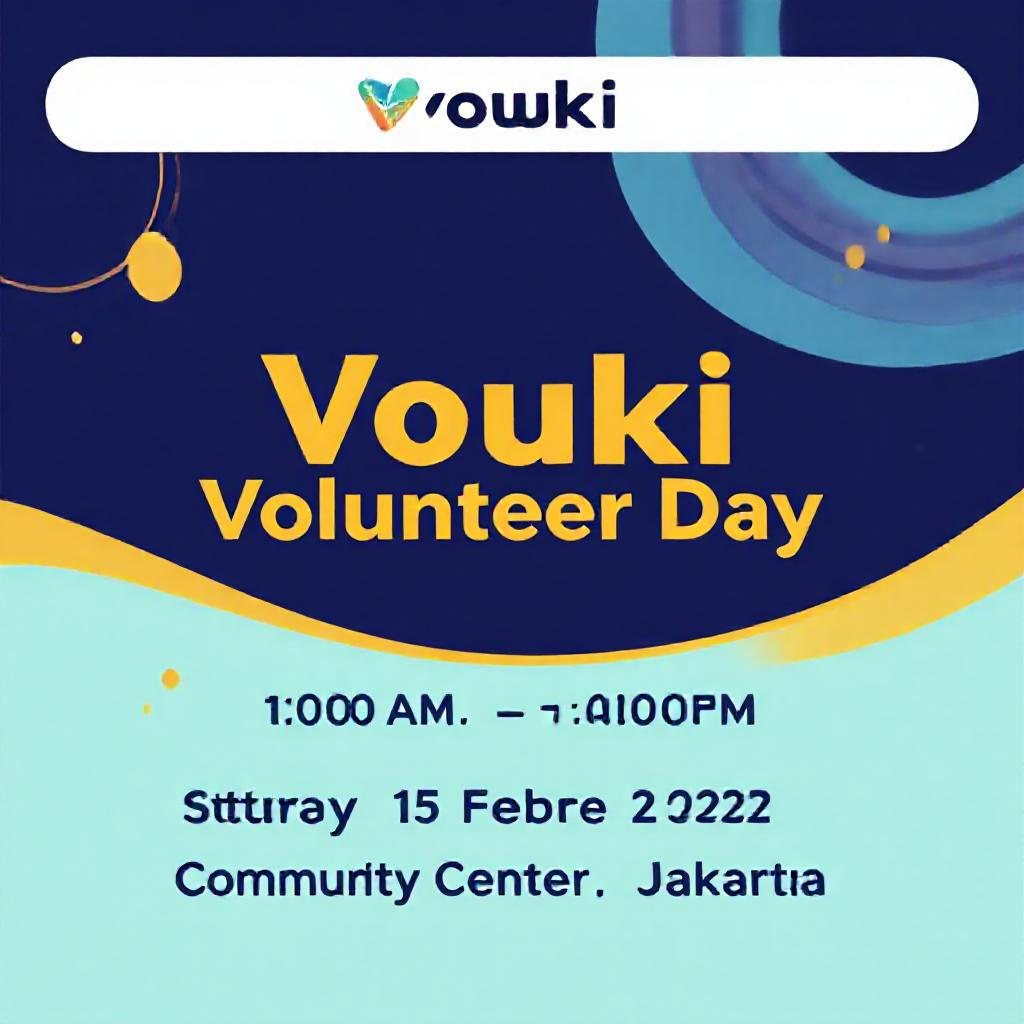
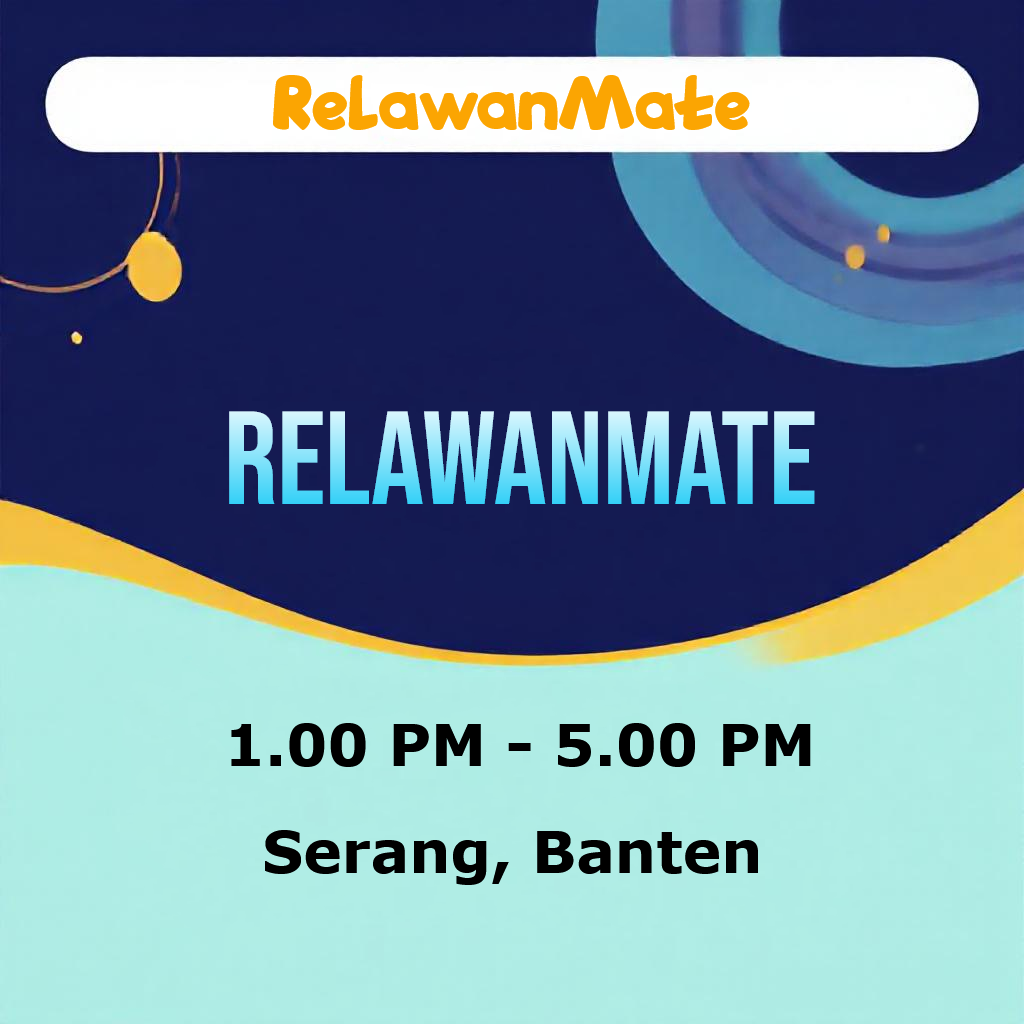
feat: for business

diff --git a/tailwind.config.js b/tailwind.config.js
@@ -23,14 +23,15 @@ export default {
                 xl: "1280px",
             },
             colors:{
-                "primary1": "#F4D8D8",
-                "secondary1": "#B06E6E",
-                "tertiary1": "#550909",
-                "primary2": "#DE7C7D",
-                "secondary2": "#CC2B52",
-                "tertiary2": "#AF1740",
-                "tertiary3": "#740938",
-                "tertiary4": "#37061B",
+                "primary1": "#D8E6F4",     // Soft Frost Blue
+                "secondary1": "#6E8BB0",   // Dusty Denim Blue
+                "tertiary1": "#092B55",    // Deep Navy (pengganti 550909 vibe-nya)
+                "primary2": "#7CB0DE",     // Skywashed Blue
+                "secondary2": "#2B5FCC",   // Bold Blue (strong tapi gak neon)
+                "tertiary2": "#1748AF",    // Royal Indigo
+                "tertiary3": "#093074",    // Dark Cobalt
+                "tertiary4": "#061A37",    // Midnight Blue (gelap banget, buat background/depth)
+                "backgroundblue": "#F2F6FD", // Soft Frost White
             }
         },
     },

diff --git a/resources/views/profile/edit.blade.php b/resources/views/profile/edit.blade.php
@@ -8,11 +8,11 @@
     <x-container>
         <div x-data="{ tab: 'profile-information' }" class="tw-flex tw-space-x-4">
             <!-- Navigation Column -->
-            <div class="tw-w-1/4 tw-bg-red-100 tw-p-4 tw-shadow sm:tw-rounded-lg tw-h-auto">
+            <div class="tw-w-1/4 tw-bg-slate-300 tw-p-4 tw-shadow sm:tw-rounded-lg tw-h-auto">
                 <div class="tw-flex tw-flex-col tw-space-y-4">
                     <button @click.prevent="tab = 'profile-information'"
-                        :class="{ 'tw-bg-rose-950 tw-text-white': tab === 'profile-information', 'tw-bg-white tw-text-red-950': tab !== 'profile-information' }"
-                        class="tw-py-2 tw-px-4 tw-rounded tw-border tw-text-red-950 tw-transition-colors tw-flex tw-items-center">
+                        :class="{ 'tw-bg-slate-200 tw-text-white': tab === 'profile-information', 'tw-bg-white tw-text-secondary2': tab !== 'profile-information' }"
+                        class="tw-py-2 tw-px-4 tw-rounded tw-border tw-text-secondary2 tw-transition-colors tw-flex tw-items-center">
                         <svg class="tw-w-5 tw-h-5 tw-mr-2" fill="none" stroke="currentColor" viewBox="0 0 24 24"
                             xmlns="http://www.w3.org/2000/svg">
                             <path stroke-linecap="round" stroke-linejoin="round" stroke-width="2"
@@ -23,8 +23,8 @@
                         Profile Information
                     </button>
                     <button @click.prevent="tab = 'update-password'"
-                        :class="{ 'tw-bg-rose-950 tw-text-white': tab === 'update-password', 'tw-bg-white tw-text-red-950': tab !== 'update-password' }"
-                        class="tw-py-2 tw-px-4 tw-rounded tw-border tw-text-red-950 tw-transition-colors tw-flex tw-items-center">
+                        :class="{ 'tw-bg-slate-200 tw-text-white': tab === 'update-password', 'tw-bg-white tw-text-secondary2': tab !== 'update-password' }"
+                        class="tw-py-2 tw-px-4 tw-rounded tw-border tw-text-secondary2 tw-transition-colors tw-flex tw-items-center">
                         <svg class="tw-w-5 tw-h-5 tw-mr-2" fill="none" stroke="currentColor" viewBox="0 0 24 24"
                             xmlns="http://www.w3.org/2000/svg">
                             <path stroke-linecap="round" stroke-linejoin="round" stroke-width="2"
@@ -36,8 +36,8 @@
                         Update Password
                     </button>
                     <button @click.prevent="tab = 'delete-user'"
-                        :class="{ 'tw-bg-rose-950 tw-text-white': tab === 'delete-user', 'tw-bg-white tw-text-red-950': tab !== 'delete-user' }"
-                        class="tw-py-2 tw-px-4 tw-rounded tw-border tw-text-red-950 tw-transition-colors tw-flex tw-items-center">
+                        :class="{ 'tw-bg-slate-200 tw-text-white': tab === 'delete-user', 'tw-bg-white tw-text-secondary2': tab !== 'delete-user' }"
+                        class="tw-py-2 tw-px-4 tw-rounded tw-border tw-text-secondary2 tw-transition-colors tw-flex tw-items-center">
                         <svg class="tw-w-5 tw-h-5 tw-mr-2" fill="none" stroke="currentColor" viewBox="0 0 24 24"
                             xmlns="http://www.w3.org/2000/svg">
                             <path stroke-linecap="round" stroke-linejoin="round" stroke-width="2"

diff --git a/resources/views/welcome.blade.php b/resources/views/welcome.blade.php
@@ -27,7 +27,7 @@
                 <h1 class="tw-text-2xl tw-font-semibold">Find The Right Events For You</h1>
                 <a href="" class="tw-text-gray-700 underline">See All Categories</a>
             </div>
-            <p>With VouKi's advanced filtered search, you can easily discover volunteer opportunities tailored to various categories and benefits, helping you find the perfect match for your interests and goals.</p>
+            <p>With RelawanMate's advanced filtered search, you can easily discover volunteer opportunities tailored to various categories and benefits, helping you find the perfect match for your interests and goals.</p>
         </div>
 
         <div class="tw-grid w-full tw-grid-cols-1 sm:tw-grid-cols-2 md:tw-grid-cols-3 lg:tw-grid-cols-4 tw-mb-8 tw-gap-5">
@@ -62,7 +62,7 @@
                 <h1 class="tw-text-2xl tw-font-semibold">Latest Volunteer Opportunities</h1>
                 <a href="{{ route('events.index') }}" class="tw-text-gray-700 underline">See All Opportunities</a>
             </div>
-            <p>Vouki provides you with the latest volunteer opportunities, connecting passionate individuals with meaningful causes and events where they can make a difference.</p>
+            <p>RelawanMate provides you with the latest volunteer opportunities, connecting passionate individuals with meaningful causes and events where they can make a difference.</p>
         </div>
 
         <div class="tw-grid w-full tw-grid-cols-1 sm:tw-grid-cols-2 md:tw-grid-cols-3 lg:tw-grid-cols-4 tw-mb-8 tw-gap-5">

diff --git a/resources/views/layouts/navigation.blade.php b/resources/views/layouts/navigation.blade.php
@@ -8,7 +8,7 @@
                     <a href="{{ auth()->check() ? route('events.index') : route('home.index') }}"
                         class="flex tw-items-center tw-gap-2 hover:tw-opacity-80">
                         <x-application-logo class="tw-block tw-h-12 tw-w-auto tw-drop-shadow" />
-                        <h1 class="tw-font-bold tw-text-xl">VouKi</h1>
+                        <h1 class="tw-font-bold tw-text-xl">RelawanMate</h1>
                     </a>
                 </div>
             </div>

diff --git a/resources/views/layouts/app.blade.php b/resources/views/layouts/app.blade.php
@@ -34,7 +34,7 @@
 </head>
 
 <body class="tw-font-sans tw-antialiased tw-relative">
-    <div class="tw-min-h-screen tw-bg-pink-50">
+    <div class="tw-min-h-screen tw-bg-backgroundblue">
         @include('layouts.navigation')
         <!-- Page Heading -->
         @isset($header)
